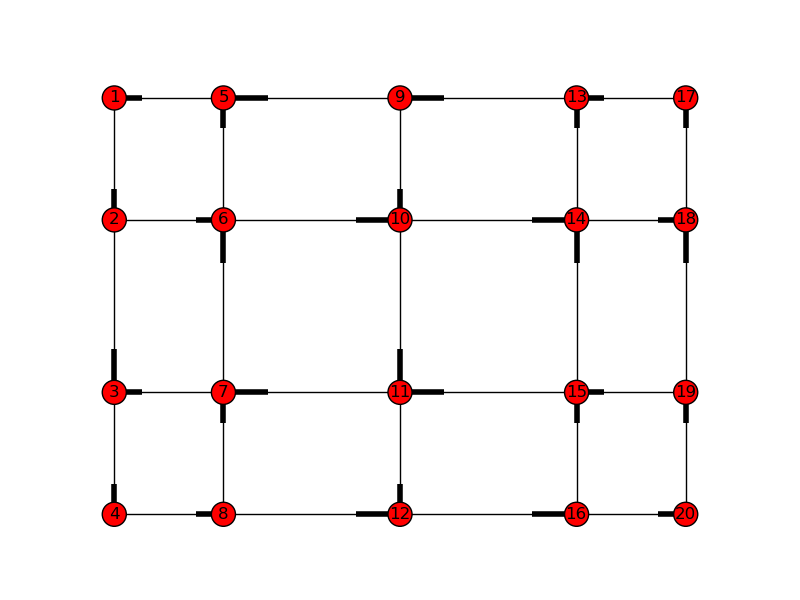
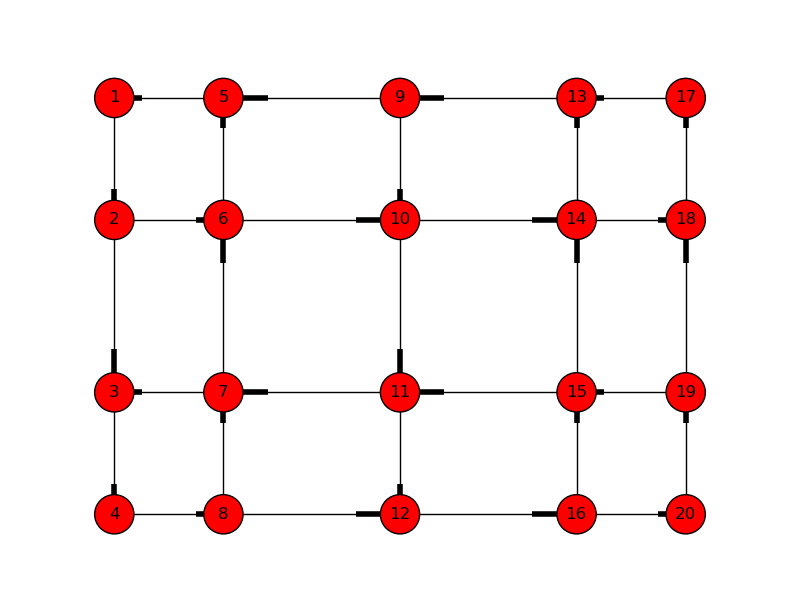
Criando setup para grafo inspirado no continente Kanto

diff --git a/setup_kanto.py b/setup_kanto.py
@@ -1,1 +1,24 @@
 # coding: utf-8
+import networkx as nx
+import matplotlib.pyplot as plt
+
+
+G = nx.DiGraph()
+
+G.add_edges_from([
+    (1, 2),
+    (2, 3),
+    (3, 4),
+    (4, 5),
+    (5, 6),
+    (5, 8),
+    (8, 9),
+    (6, 7),
+    (7, 9),
+    (9, 1),
+])
+
+nx.draw_spectral(G, node_size=800)
+
+plt.savefig("kanto_graph.png") # save as png
+plt.show()

diff --git a/setup_manhattan.py b/setup_manhattan.py
@@ -56,9 +56,9 @@ G.add_edges_from([
     (16, 20),
 ])
 
-nx.draw_spectral(G)
+nx.draw_spectral(G, node_size=800)
 
-plt.savefig("manhattan_graphpng") # save as png
+plt.savefig("manhattan_graph.png") # save as png
 plt.show()
 
 
